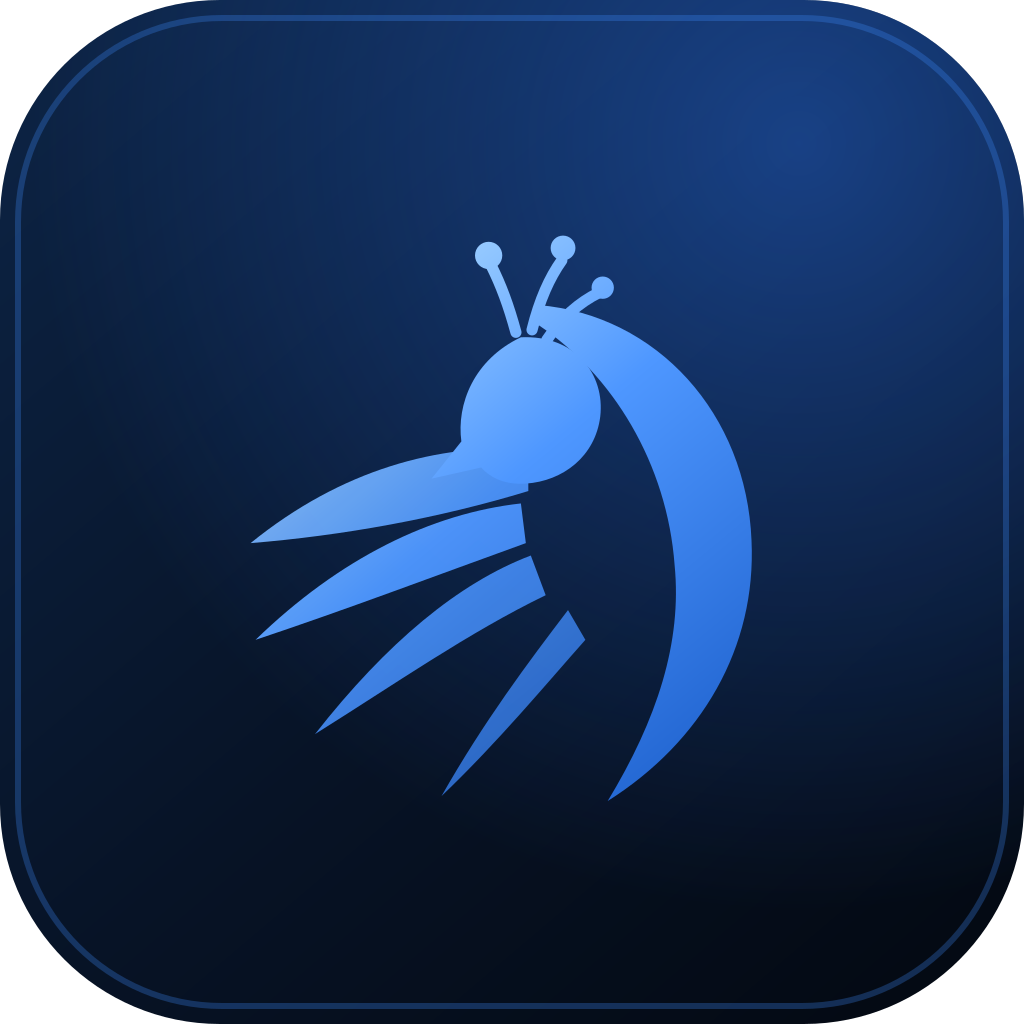
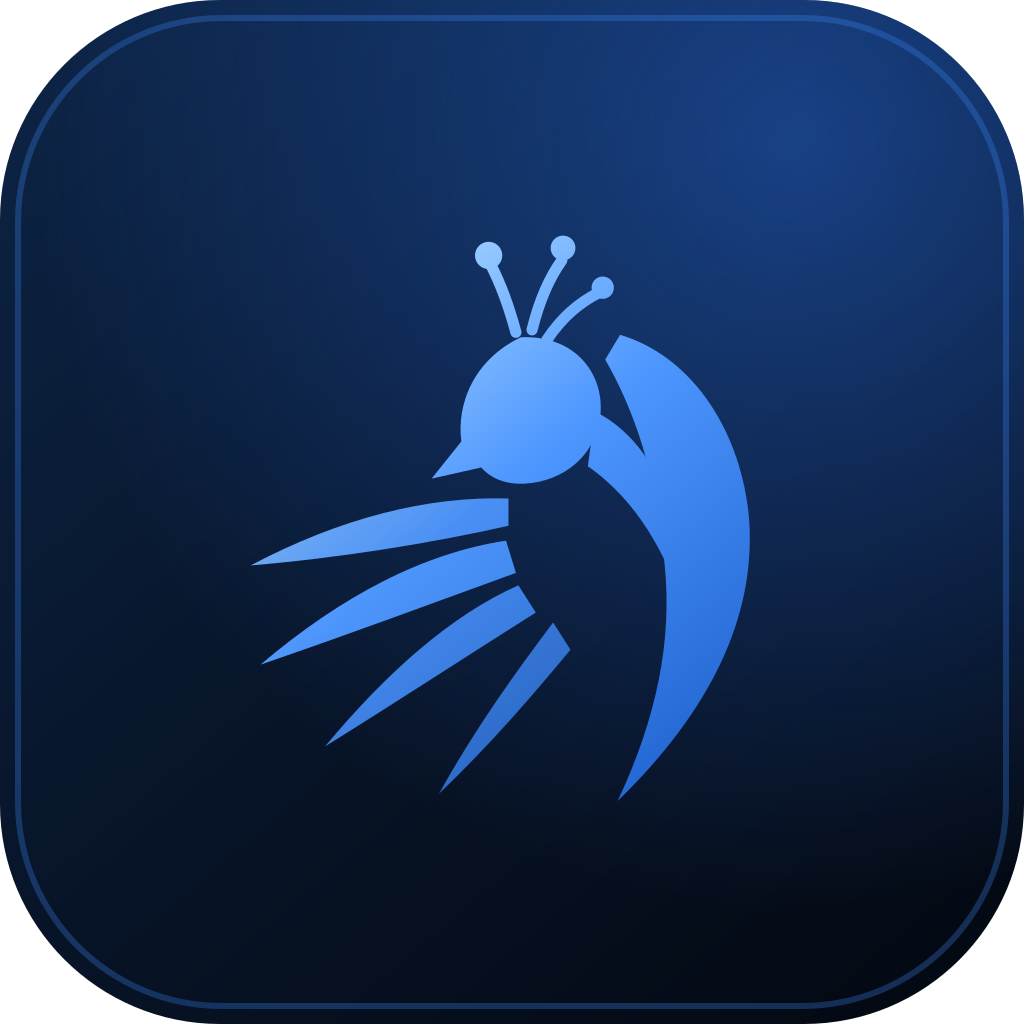
Refine the peacock mark so the head joins the tail
The first pass left the head floating beside the rising arc, which read as
two separate shapes at launcher-icon size. The neck path connects them and
the feathers now fan out below the head without crossing it.

🤖 Generated with Codebuff

diff --git a/application/src/components/BrandLogo.tsx b/application/src/components/BrandLogo.tsx
@@ -27,31 +27,37 @@ export function BrandLogo({size = 48, variant = 'brand', color = '#FFFFFF'}: Pro
         </LinearGradient>
       </Defs>
 
-      {/* Feather ribbons */}
+      {/* Feather ribbons fanning to the lower left */}
       <Path
-        d="M268 212C196 208 118 228 44 288C118 282 196 268 268 246Z"
+        d="M252 252C186 250 116 268 44 306C116 300 190 288 252 274Z"
+        fill={stroke}
+        opacity={0.94}
+      />
+      <Path
+        d="M250 286C184 296 118 330 52 386C122 362 192 336 258 312Z"
+        fill={stroke}
+        opacity={0.98}
+      />
+      <Path
+        d="M260 322C206 346 154 392 104 452C162 416 220 378 274 344Z"
         fill={stroke}
         opacity={0.92}
       />
       <Path
-        d="M262 256C190 264 116 300 48 366C120 342 194 314 266 288Z"
+        d="M288 352C258 392 226 436 196 490C238 450 272 410 302 374Z"
         fill={stroke}
-        opacity={0.96}
-      />
-      <Path
-        d="M270 298C212 320 154 368 96 442C160 402 220 360 282 330Z"
-        fill={stroke}
-        opacity={0.9}
-      />
-      <Path
-        d="M300 342C268 384 232 432 198 492C244 448 282 402 314 366Z"
-        fill={stroke}
-        opacity={0.84}
+        opacity={0.86}
       />
 
-      {/* Body and rising tail */}
+      {/* Rising tail, kept clear of the head */}
       <Path
-        d="M276 96C372 104 444 184 448 286C452 372 408 448 332 496C372 430 392 368 386 306C380 224 336 152 276 112Z"
+        d="M342 120C402 138 440 200 446 268C452 348 414 424 340 496C372 428 384 366 378 306C372 232 352 178 330 140Z"
+        fill={stroke}
+      />
+
+      {/* Neck joining the head to the rising tail */}
+      <Path
+        d="M322 182C354 198 374 230 386 268C392 288 394 312 392 336C378 296 356 254 316 226Z"
         fill={stroke}
       />
 
